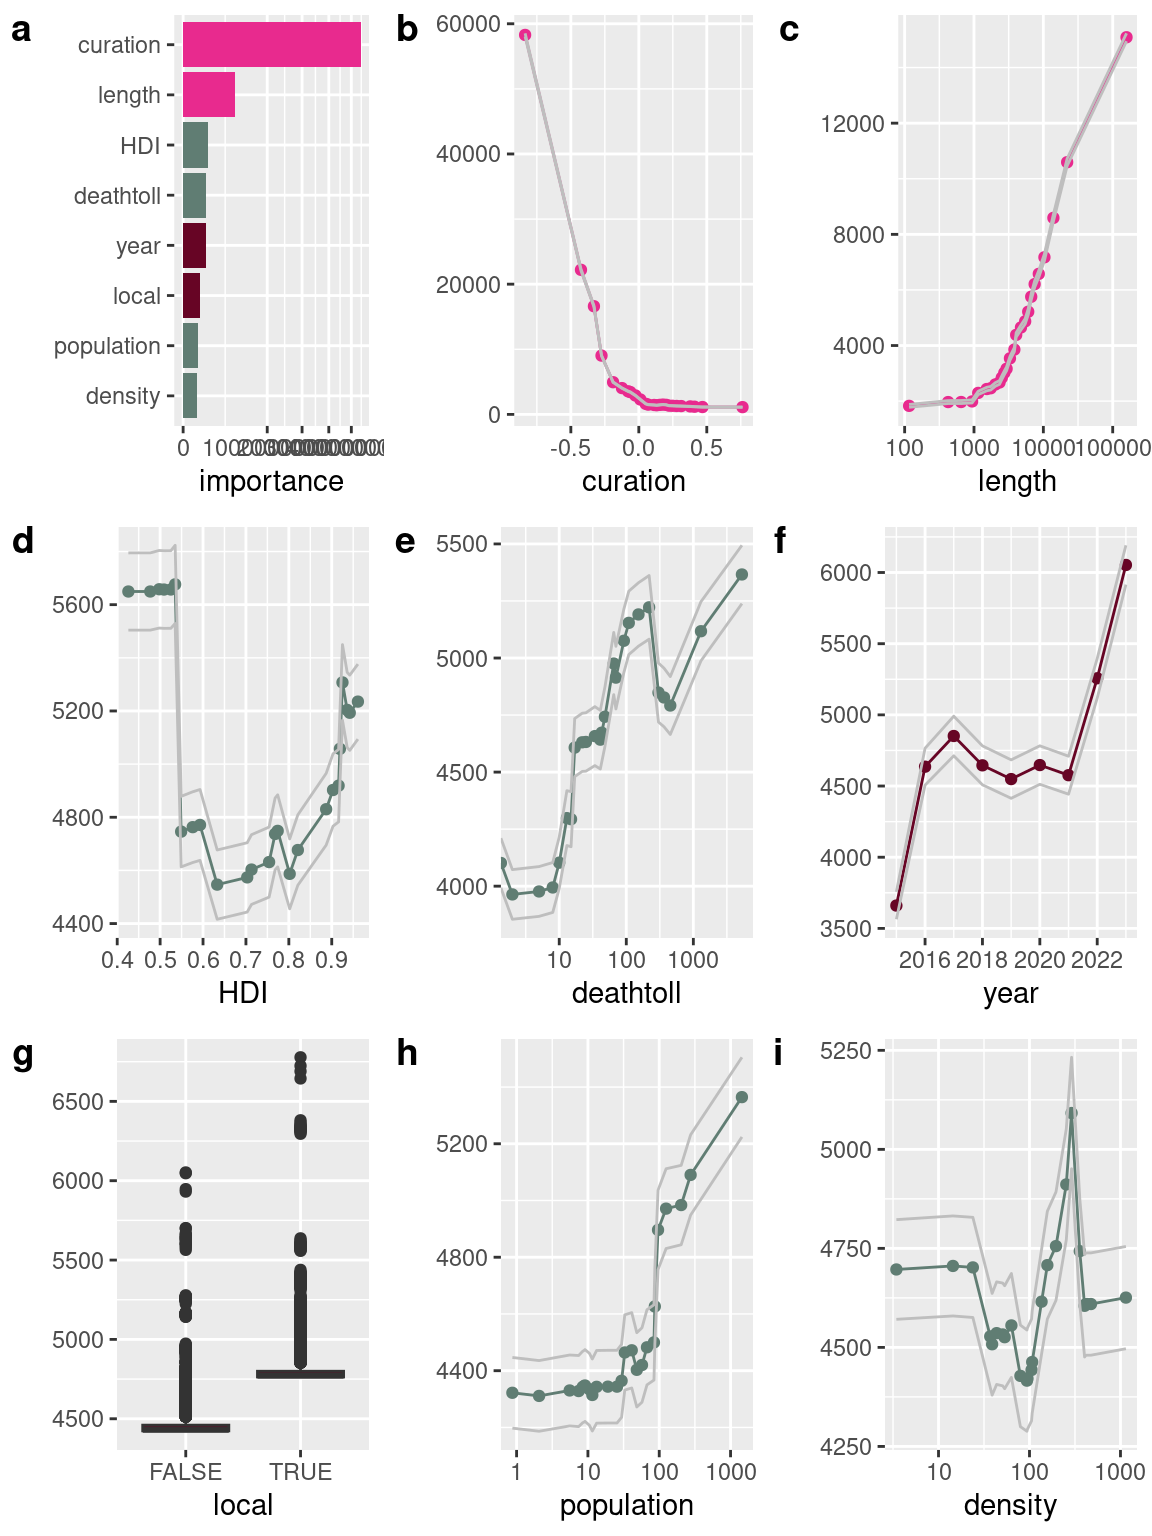
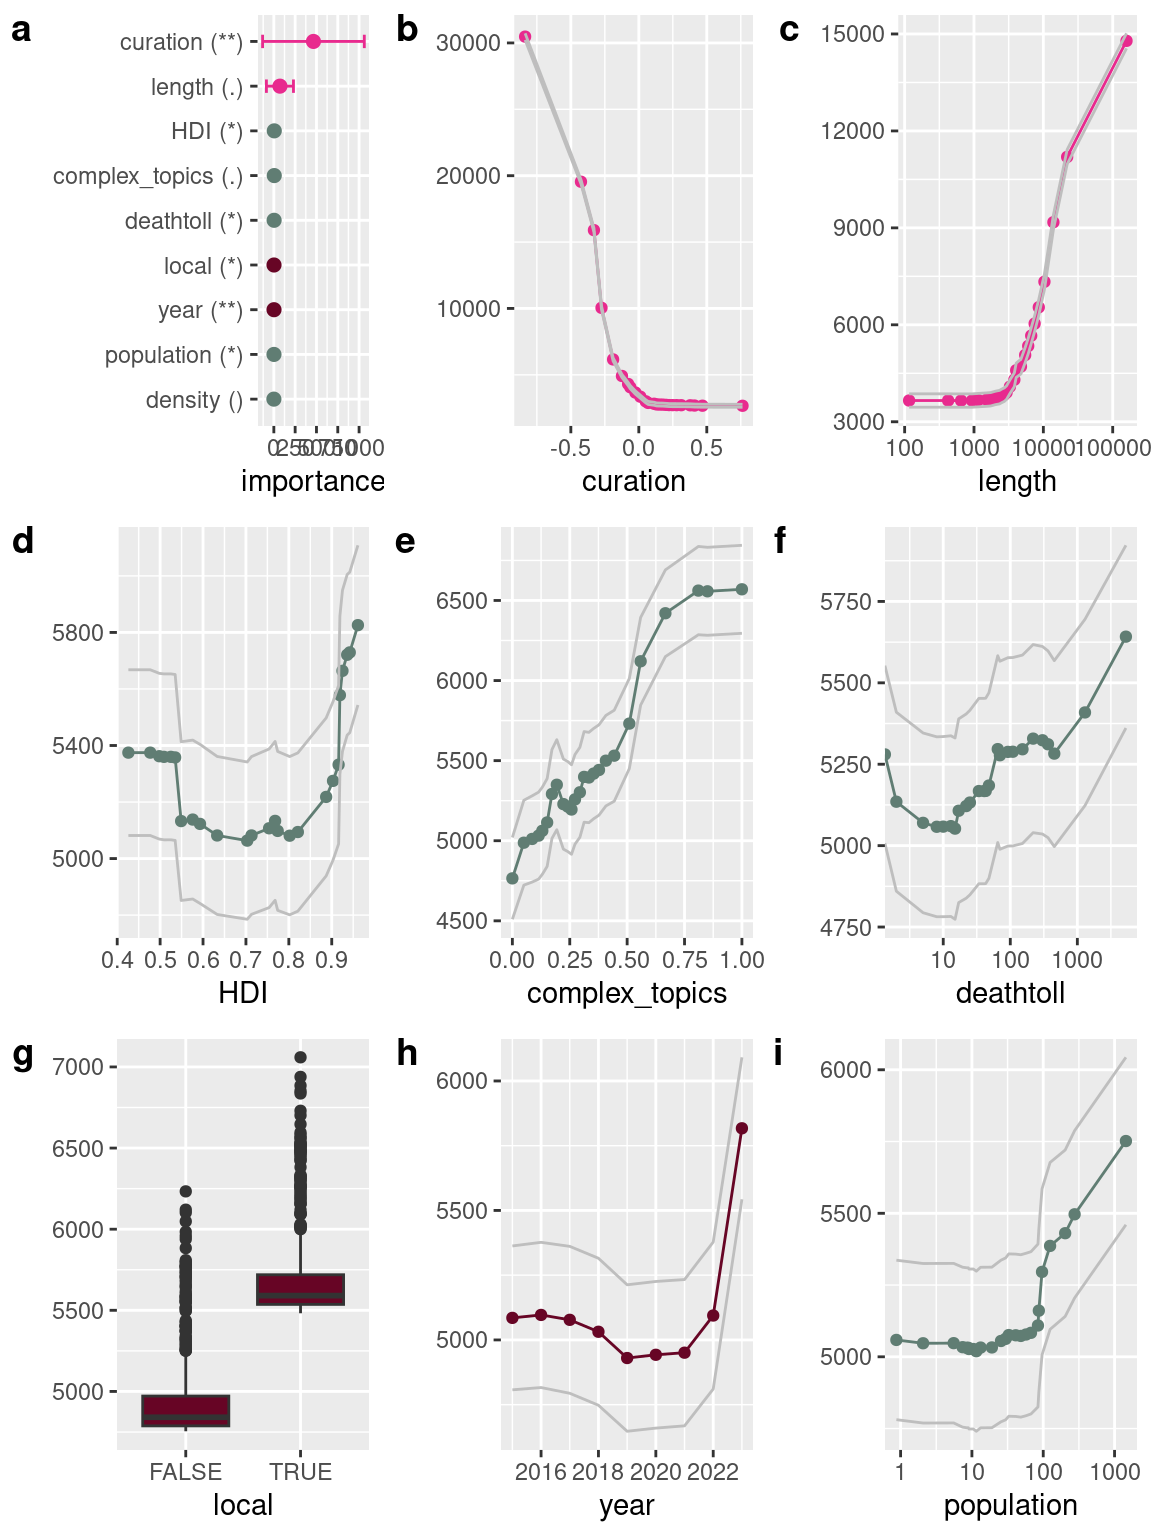
complex_topics random forest

diff --git a/index.html b/index.html
@@ -160,7 +160,7 @@ Identifying the data distribution is capital for interpretation and analysis, gi
 </div>
 <p>We carried out a first Wikidata query (<a href="#fig-queries">Figure&nbsp;1</a> .a) to get all instances of floods or subclasses of floods as well as a few descriptors of these. The events can be located through <code>coords</code> (geographical coordinates) <code>loc</code> (a location -which can be any type of geographical item documented in Wikidata, e.g.&nbsp;a city, region or country- which in turn might provide coordinates-), or simply through the <code>country</code> variable -which might also in turn provide coordinates-). We used all these variables to try and provide coordinates for as many events as possible, with the greatest precision possible: we prioritized <code>coords</code> (when available) over coordinates corresponding to location, and coordinates corresponding to location (when available) to coordinates corresponding to country.</p>
 <p>We carried out a second Wikidata query (<a href="#fig-queries">Figure&nbsp;1</a> .b) for each flood listed by this first query, to gather information about its time of occurrence (wdt:P585), start time (wdt:P580) and end time (wdt:P582). We hence tried to provide a date for each of the events using either one of the previous items, prioritizing the date provided by time of occurrence (if available) over the average date between start time and end time (if both were available), average date between start time and end time over start time or end time (if only one was available), and start time or end time over four-digit words in the events’ label if present (as labels generally consist of a mention of type of event, time and place). Time-related information on Wikidata are specified with varying precision, which when regarding floods generally vary between dayly precision and yearly precision.</p>
-<p>We carried out a third Wikidata query (<a href="#fig-queries">Figure&nbsp;1</a> .c) for each country listed by the first query, to gather information about their coordinates, the languages used by their population (either official or used languages), and Human Development Index (HDI).</p>
+<p>We carried out a third Wikidata query (<a href="#fig-queries">Figure&nbsp;1</a> .c) for each country listed by the first query, to gather information about their coordinates, the languages used by their population (either official or used languages), Human Development Index (HDI), population and area.</p>
 </section>
 <section id="comparison-to-the-dartmouth-flood-observatory-data" class="level2">
 <h2 class="anchored" data-anchor-id="comparison-to-the-dartmouth-flood-observatory-data">Comparison to the Dartmouth Flood Observatory data</h2>
@@ -178,7 +178,7 @@ Identifying the data distribution is capital for interpretation and analysis, gi
 </section>
 <section id="statistical-analyses" class="level2">
 <h2 class="anchored" data-anchor-id="statistical-analyses">Statistical analyses</h2>
-<p>We ran all statistical analyses and produced graphics with the R software <span class="citation" data-cites="R_base">(<a href="#ref-R_base" role="doc-biblioref"><strong>R_base?</strong></a>)</span>. When comparing distributions through categories (associating this comparison with boxplots) we tested the difference of each category’s median with the other categories’ median using the Wilcoxon test, a non-parametric test based on ranks, in order not to rely on a normal distribution hypothesis or on asymptotic conditions. When we had more than two categories to compare, we compared one category to all other categories, pooling them. We generally considered models with two levels, the response depending on two categorical variables X_1 and X_2. We tested the significance of the difference in median of each level of X_1 against all other levels of X_1, and for each level of X_1, the difference in median of each level of X_2 against all other levels of X_2. We displayed on the graphics the difference in median for each group associated with a code for the p-value: <code>.</code>:p&lt;0.1, <code>*</code>:p&lt;0.05, <code>**</code>:p&lt;0.01, <code>***</code>:p&lt;0.001.</p>
+<p>We ran all statistical analyses and produced graphics with the R software <span class="citation" data-cites="r_core_team_r_2024">(<a href="#ref-r_core_team_r_2024" role="doc-biblioref">R Core Team 2024</a>)</span>. When comparing distributions through categories (associating this comparison with boxplots) we tested the difference of each category’s median with the other categories’ median using the Wilcoxon test, a non-parametric test based on ranks, in order not to rely on a normal distribution hypothesis or on asymptotic conditions. When we had more than two categories to compare, we compared one category to all other categories, pooling them. We generally considered models with two levels, the response depending on two categorical variables X_1 and X_2. We tested the significance of the difference in median of each level of X_1 against all other levels of X_1, and for each level of X_1, the difference in median of each level of X_2 against all other levels of X_2. We displayed on the graphics the difference in median for each group associated with a code for the p-value: <code>.</code>:p&lt;0.1, <code>*</code>:p&lt;0.05, <code>**</code>:p&lt;0.01, <code>***</code>:p&lt;0.001.</p>
 </section>
 <section id="text-analysis-of-wikipedia-pages" class="level2">
 <h2 class="anchored" data-anchor-id="text-analysis-of-wikipedia-pages">Text analysis of Wikipedia pages</h2>
@@ -348,7 +348,7 @@ Identifying the data distribution is capital for interpretation and analysis, gi
 </div>
 </div>
 <p><a href="#fig-deathtoll_WD_DFO">Figure&nbsp;3</a> <em>a) Distribution of deathtolls estimates in Wikidata and DFO according to the estimates being paired or not (deathtoll estimates are paired when the events in Wikidata have been paired to an event in DFO). b) Comparison of deathtoll paired estimates in Wikidata and DFO for the same events. The symbol varies according to the deathtoll estimate in Wikidata being sourced, indicating a higher reliability of the estimate.</em></p>
-<p><a href="#fig-deathtoll_WD_DFO">Figure&nbsp;3</a> shows that the deathtoll values are generally higher in the WD dataset than in the DFO dataset, which is consistent with the fact that the WD dataset is biased towards events with high societal impact. However, the correlation between the deathtoll values in the two datasets is quite high. In particular, there is a portion of the matched events for which the recorded deathtoll is exactly the same (276 events i.e.&nbsp;52.67% of the paired events) or of the same order of magnitude (361 events i.e.&nbsp;68.89% of the paired events) which suggests not only that the pairing of events is mainly correct, despite the difficulty of joining completely independently designed datasets, but also that the WD dataset is not entirely about the events with highest deathtoll values.</p>
+<p><a href="#fig-deathtoll_WD_DFO">Figure&nbsp;3</a> shows that the deathtoll values are generally higher in the WD dataset than in the DFO dataset, which is consistent with the fact that the WD dataset is biased towards events with high societal impact. However, the correlation between the deathtoll values in the two datasets is quite high. In particular, there is a portion of the matched events for which the recorded deathtoll is exactly the same (276 events i.e.&nbsp;52.67% of the paired events) or of the same order of magnitude (361 events i.e.&nbsp;68.89% of the paired events) which suggests not only that the pairing of events is mainly correct, despite the difficulty of joining completely independently designed datasets, but also that the WD dataset also deals with events with lower deathtoll values.</p>
 <div class="cell">
 <div class="cell-output-display">
 <div id="fig-wd_year" class="quarto-figure quarto-figure-center anchored">
@@ -474,7 +474,7 @@ Identifying the data distribution is capital for interpretation and analysis, gi
 </div>
 <p><a href="#fig-curation">Figure&nbsp;8</a> <em>Mean length of edits as a function of number of edits. The residuals of these relationship correspond to a relative mean edit length, and curation is calculated as minus the residuals. The articles in language ‘simple’ (for ‘simple English’) being destined to be particularly synthetic, we did not take include them in the model.</em></p>
 <p><a href="#fig-curation">Figure&nbsp;8</a> shows that beyond a few edits (here, we consider the threshold is 10), the mean edit length for an article depends on the total number of edits for that same article, in an approximately linear relationship with both variables being log-transformed. The more edits a page has undergone, the lower the mean edit length: there is a tendency towards lower mean edit length as the page ‘matures’, with edits in a more advanced writing stage corresponding to suppressions, corrections, or slight modifications while edits at the beginning of the writing process tend to be more frequently text additions. We consider the difference between actual mean edit length edit and predicted mean edit length (based on number of edits) as a measure of relative edit length (it corresponds to a measure of mean edit length decorrelated from this previously described writing stage effect). We calculate the curation score as corresponding to minus the relative edit length (i.e.&nbsp;high level of curation corresponds to smaller-sized edits). These residuals are normalized to correspond to scores ranging from -1 (rather lowly curated articles) to 1 (very highly curated articles). These curation scores are only available for articles that have undergone at least 10 edits, so that article stubs created mainly from an automatic translation process from another Wikipedia page are not included in the analysis of curation effects.</p>
-<p>We expect curation to be linked to the characteristics of the articles and the events they describe. We hypothesize in particular that curation will be higher for articles that are longer (editing efforts focused on longer articles), written in a language local to the event and that are about events with a high deathtoll (more public scrutiny). We also consider other explanatory variables such as time (as there can be varying standards for Wikipedia pages redaction), HDI (as a proxy to the number of internet users), affected country’s population and population density (as (as more public scrutiny and more people potentially physically affected by the flood could influence the curation process).</p>
+<p>We expect curation to be linked to the characteristics of the articles and the events they describe. We hypothesize in particular that curation will be higher for articles that are longer (editing efforts focused on longer articles), written in a language local to the event and that are about events with a high deathtoll (more public scrutiny). We also consider other explanatory variables such as time (as there can be varying standards for Wikipedia pages redaction), HDI (as a proxy to the proportion of internet users in the population), affected country’s population and population density (as more public scrutiny and more people potentially physically affected by the flood could influence the curation process).</p>
 <div class="cell">
 <div class="cell-output-display">
 <div id="fig-curation_causes" class="quarto-figure quarto-figure-center anchored">
@@ -487,19 +487,19 @@ Identifying the data distribution is capital for interpretation and analysis, gi
 </div>
 <p><a href="#fig-curation_causes">Figure&nbsp;9</a> <em>Links between curation of Wikipedia articles and a set of articles’ descriptors (fushia), events’ descriptors (green) and mixed descriptors (brown) assessed through a random forest regression. a) shows the relative importance of the descriptors in the prediction. The subsequent graphics show the partial effect of the descriptors on curation</em></p>
 <p><a href="#fig-curation_causes">Figure&nbsp;9</a> .a shows that the level of curation of an article is primarily linked to other characteristics of the page, in particular the length of the article, and the article being written in an language local to the event. It is also linked to characteristics of the event, mainly year, HDI, density and deathtoll, and less importantly so to total population of the country where the event occurred. <a href="#fig-curation_causes">Figure&nbsp;9</a> .b shows that curation is positively correlated to articles length for articles below a certain size and then negatively for longer ones, possibly indicating that curation effort is focused on articles beyond a certain size (1000 to 10000 signs) but tend to be lower for the largest articles. Curation depends largely on the events’ year of occurrence. Curation tend to be lower for events before 2000, probably due to the difficulty of providing sources (as urls mainly) for all statements, and increases rapidly after 2000, possibly due to the combination of an increase of accessible numerical sources and more enforcement of editing standards. Contrary to our expectation, curation is lower in languages local to the event. This could be due to a larger proportion of edits being done by local people motivated by a different set of goals compared to frequent Wikipedia contributors (e.g., aiming to add vernacular content rather than improving pre-existing content). HDI is the next most important explanatory variable, with higher levels corresponding to less curation, as we surmised, although there is quite a high variation of curation for the highest HDIs, possibly due to these representing few languages and thus being affected by Wikipedia language editions with varying standards. As expected, articles are all the more curated that the event’s deathtoll is important, which reflects the fact that the level of scrutiny of Wikipedia editors on pages is correlated to the actual event’s social impact. The density of the country where the event occurred is also positively correlated to the level of curation, while total population is negatively correlated. This might seem slightly contradictory with the fact that curation is lower for local events in the sense that editors being potentially directly affected by the event does not seem to favor curation. Hence this could actually reflect the fact that editors living in densely populated areas are more likely to be frequent Wikipedia contributors and thus more likely to be familiar with Wikipedia’s editing standards.</p>
-<p>We expect that the level of curation of an article will be correlated to the topics addressed in the article. We hypothesize that higher-quality articles will correspond to a higher level of curation and address topics which necessitate a deeper level of analysis (such as anticipation, governance, and hydrology) in higher proportions.</p>
+<p>We expect that the level of curation of an article will be correlated to the topics addressed in the article. We hypothesize that higher-quality articles will correspond to a higher level of curation and address topics which necessitate a deeper level of analysis (such as anticipation, governance, and hydrology) in higher proportions. We also expect higher-impacts events (in terms of deathtoll for instance) to cause this proportion to be higher, with complex issues around responsibility, causes, and adequacy of preventive measures only gaining attention when the damage is significant. To explore this relationship we sum the proportion in which these topics are addressed in each article and run a random forest regression model explaining this complex topics proportion.</p>
 <div class="cell">
 <div class="cell-output-display">
-<div id="fig-curation_topics" class="quarto-figure quarto-figure-center anchored">
+<div id="fig-complex_topics" class="quarto-figure quarto-figure-center anchored">
 <figure class="figure">
-<p><img src="index_files/figure-html/fig-curation_topics-1.png" class="img-fluid figure-img" width="672"></p>
+<p><img src="index_files/figure-html/fig-complex_topics-1.png" class="img-fluid figure-img" width="960"></p>
 <figcaption class="figure-caption">Figure&nbsp;10: —</figcaption>
 </figure>
 </div>
 </div>
 </div>
-<p><a href="#fig-curation_topics">Figure&nbsp;10</a><em>:</em> <em>Proportion of topics in each article according to its curation level. We classified articles into two categories representing the 33% most curated articles (high curation) vs all other articles. For each class we tested the difference in proportion based on a Wilcoxon rank test. The symbols correspond to p-values with <code>.</code>:p&lt;0.1, <code>*</code>:p&lt;0.05, <code>**</code>:p&lt;0.01, <code>***</code>:p&lt;0.001).</em></p>
-<p><a href="#fig-curation_topics">Figure&nbsp;10</a> shows that, contrary to our hypothesis, articles with high levels of curation tend to address topics such as relief, hydrology and governance in lower proportions. This hints at Wikipedia’s curation process actually tending to lower the proportion in which these topics appear (for instance through the suppression of unchecked or debatable statements).</p>
+<p><strong>?@fig-curation_topics</strong> <em>Links between proportion of complex topics in the Wikipedia articles and a set of articles’ descriptors (fushia), events’ descriptors (green) and mixed descriptors (brown) assessed through a random forest regression. a) shows the relative importance of the descriptors in the prediction. The subsequent graphics show the partial effect of the descriptors on the proportion</em></p>
+<p><strong>?@fig-curation_topics</strong> shows that the primary explanation to the proportion in which complex topics are addressed in the article is the length of the article (as we had already surmised from <a href="#fig-topic_per_length">Figure&nbsp;7</a>). The second one is the year of the event, with a high proportion of complex topics in the articles reporting older, historical events. That proportion decreases greatly from 1970 to 2015 and then starts increasing again, maybe due to increasing standards in the reporting of events. The proportion of complex topics addressed is also positively correlated to HDI. The proportion of complex topics is positively correlated to deathtoll for deathtolls up to 80, but negatively so beyond, reflecting that up to a certain point the discussion of causes and responsibility is increased by the event’s damage severity but for higher deathtolls the narration of the event’s unfolding in terms of weather and damage takes precedence. Contrary to our hypothesis also, articles with high levels of curation tend to address complex topics in lower proportions. This hints at Wikipedia’s curation process actually tending to lower the proportion in which these topics appear (for instance through the suppression of unchecked or debatable statements). The effects of population and population density is difficult to interpret, as they probably result both from the number of people impacted and the variations in the standards of the people contributing the articles. The proportion of complex topics is lower for articles written in a local language, maybe reflecting the fact that providing documented statements about complex, potentially controversial topics surrounding floods is more difficult when one has more personal involvement and possibly less hindsight on an event.</p>
 </section>
 <section id="number-of-views" class="level3">
 <h3 class="anchored" data-anchor-id="number-of-views">Number of views</h3>
@@ -516,7 +516,7 @@ Identifying the data distribution is capital for interpretation and analysis, gi
 </div>
 </div>
 </div>
-<p><a href="#fig-views">Figure&nbsp;11</a><em>:</em> Links between short-term number of views of Wikipedia articles (during the 3 months following their creation) and a set of articles’ descriptors (fushia), events’ descriptors (green) and mixed descriptors (brown) assessed through a random forest regression. a) shows the relative importance of the descriptors in the prediction. The subsequent graphics show the partial effect of the descriptors on response.</p>
+<p><a href="#fig-views">Figure&nbsp;11</a>:<em>Links between short-term number of views of Wikipedia articles (during the 3 months following their creation) and a set of articles’ descriptors (fushia), events’ descriptors (green) and mixed descriptors (brown) assessed through a random forest regression. a) shows the relative importance of the descriptors in the prediction. The subsequent graphics show the partial effect of the descriptors on response.</em></p>
 <p><a href="#fig-views">Figure&nbsp;11</a> .a shows that the short-term number of views of an article is most importantly correlated to curation, though not in the way we expected since highest number of views correspond to low levels of curation. As short-term number of views is also positively linked to article length, this could be interpreted as a sign that quantity of content (rather than quality) is the factor behind the number of views, especially shortly after a crisis, and that curation effort is not particularly focused on the articles generating the most views. The short-term number of views is also, as we expected, positively correlated to the events’ deathtolls. The link to HDI is a bit more difficult to interpret with lowest and highest HDIs corresponding to the most views (independently of e.g.&nbsp;population density or deathtoll). We suspect the high number of views for lowest HDI could be due to e.g.&nbsp;Non-Governmental Organizations channelling foreign and digital-oriented attention to flood events in very vulnerable areas. The short-term number of views tends to increase over the years, and is higher for articles written in a local language, which was to be expected. The effect of population density is difficult to interpret, while total population is positively correlated to the short-term number of view, hinting at the sheer volume of viewers being linked to the size of national public audience.</p>
 </section>
 </section>
@@ -653,6 +653,9 @@ O’Reilly, Tim. 2020. <span>“4. <span>What</span> <span>Is</span> <span>Web</
 </div>
 <div id="ref-oeberst_knowledge_2014" class="csl-entry" role="listitem">
 Oeberst, Aileen, Iassen Halatchliyski, Joachim Kimmerle, and Ulrike Cress. 2014. <span>“Knowledge <span>Construction</span> in <span>Wikipedia</span>: <span>A</span> <span>Systemic</span>-<span>Constructivist</span> <span>Analysis</span>.”</span> <em>Journal of the Learning Sciences</em> 23 (2): 149–76. <a href="https://doi.org/10.1080/10508406.2014.888352">https://doi.org/10.1080/10508406.2014.888352</a>.
+</div>
+<div id="ref-r_core_team_r_2024" class="csl-entry" role="listitem">
+R Core Team. 2024. <em>R: <span>A</span> <span>Language</span> and <span>Environment</span> for <span>Statistical</span> <span>Computing</span></em>. Vienna, Austria: R Foundation for Statistical Computing. <a href="https://www.R-project.org/">https://www.R-project.org/</a>.
 </div>
 <div id="ref-ratinaud_iramuteq_2009" class="csl-entry" role="listitem">
 Ratinaud, Pierre. 2009. <span>“Iramuteq: <span>Interface</span> de <span>R</span> Pour Les <span>Analyses</span> <span>Multidimensionnelles</span> de <span>Textes</span> Et de <span>Questionnaires</span>.”</span> <a href="http://www.iramuteq.org">http://www.iramuteq.org</a>.
